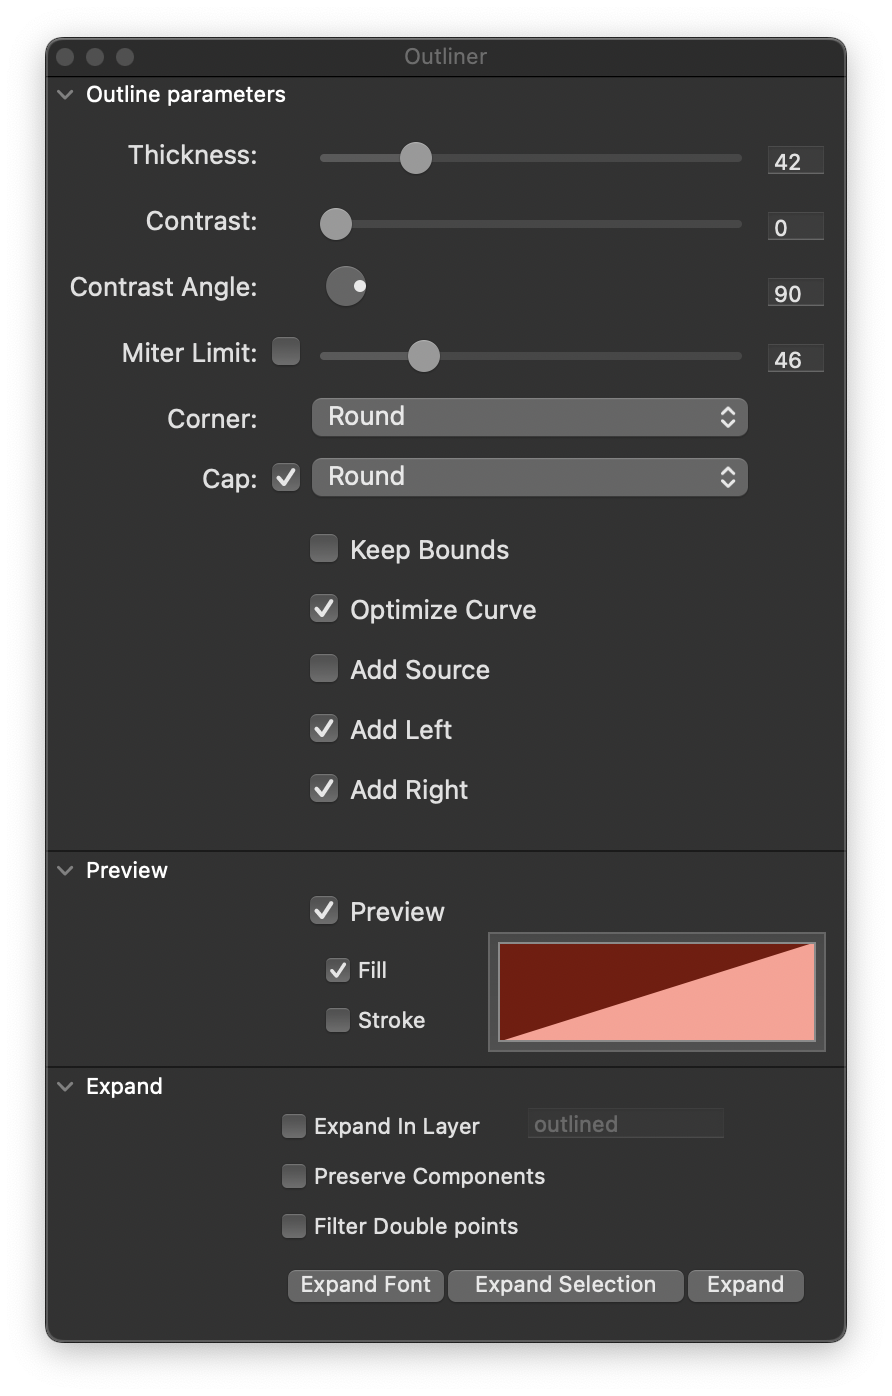
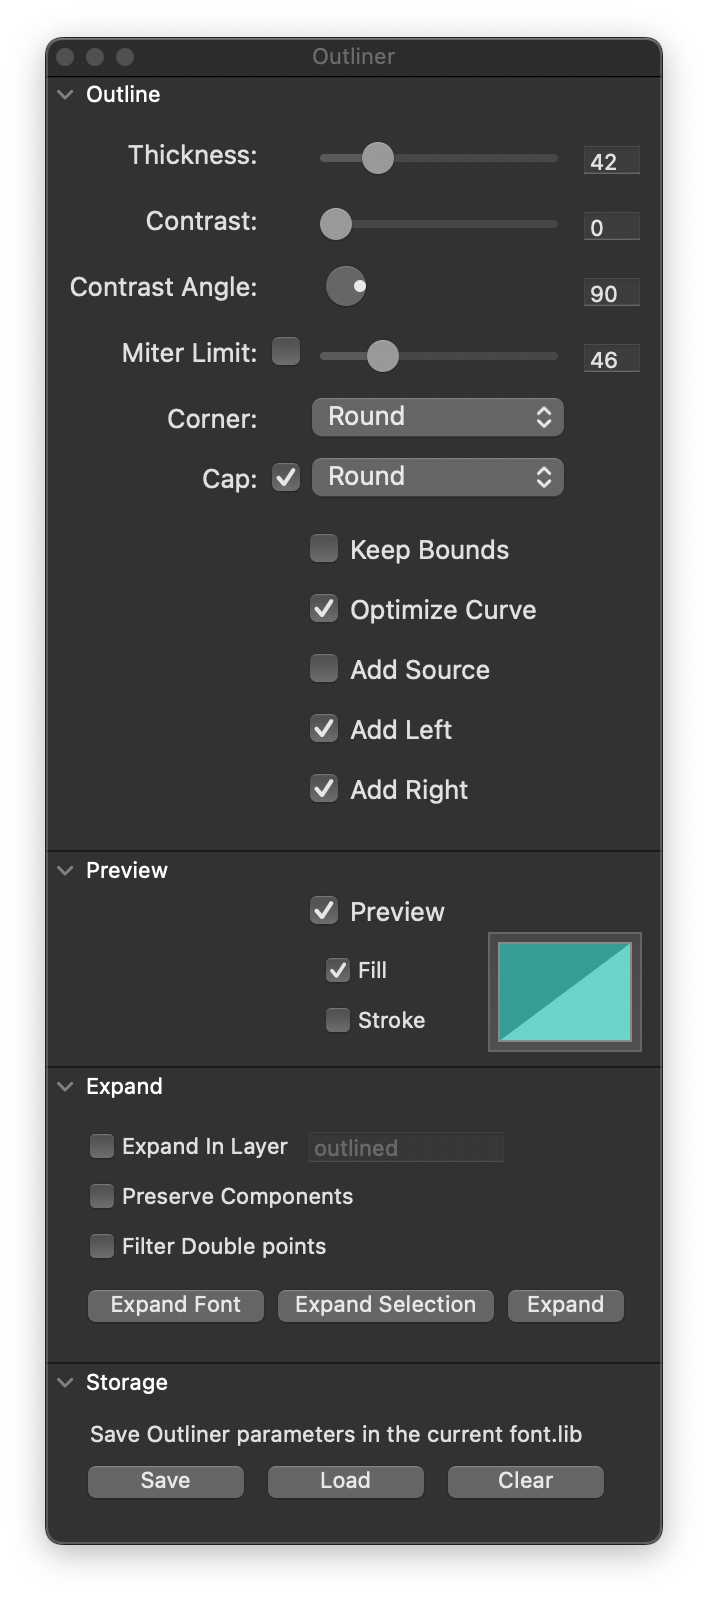
Updated screenshot

diff --git a/Outliner.roboFontExt/lib/outline.py b/Outliner.roboFontExt/lib/outline.py
@@ -428,17 +428,19 @@ class OutlinerPalette(WindowController):
         self.expandGroup.applyNewFont = vanilla.Button((115, b, 110, 22), "Expand Selection", self.expandSelection, sizeStyle="small")
         self.expandGroup.apply = vanilla.Button((230, b, 60, 22), "Expand", self.expand, sizeStyle="small")
 
-        self.storageGroup.saveSettings = vanilla.Button((20, 10, 80, 22), "Save", self.saveSettings, sizeStyle="small")
-        self.storageGroup.loadSettings = vanilla.Button((110, 10, 80, 22), "Load", self.loadSettings, sizeStyle="small")
-        self.storageGroup.clearSettings = vanilla.Button((200, 10, 60, 22), "Clear", self.clearSettings, sizeStyle="small")
+        self.storageGroup._saveHelpText = vanilla.TextBox((20, 10, 280, 14), "Save Outliner parameters in the current font.lib", alignment="left", sizeStyle="small")
 
-        self.storageGroup.savedDataStatus = vanilla.TextBox((20, 40, 280, 14), "XXX", alignment="left", sizeStyle="small")
+        self.storageGroup.saveSettings = vanilla.Button((20, 30, 80, 22), "Save", self.saveSettings, sizeStyle="small")
+        self.storageGroup.loadSettings = vanilla.Button((110, 30, 80, 22), "Load", self.loadSettings, sizeStyle="small")
+        self.storageGroup.clearSettings = vanilla.Button((200, 30, 80, 22), "Clear", self.clearSettings, sizeStyle="small")
+
+        self.storageGroup.savedDataStatus = vanilla.TextBox((20, 56, 280, 14), "", alignment="left", sizeStyle="small")
 
         descriptions = [
-            dict(label="Outline parameters", view=self.outlineGroup, size=370, collapsed=False, canResize=False),
+            dict(label="Outline", view=self.outlineGroup, size=370, collapsed=False, canResize=False),
             dict(label="Preview", view=self.previewGroup, size=90, collapsed=True, canResize=False),
             dict(label="Expand", view=self.expandGroup, size=130, collapsed=True, canResize=False),
-            dict(label="Storage into font.lib", view=self.storageGroup, size=80, collapsed=True, canResize=False),
+            dict(label="Storage", view=self.storageGroup, size=90, collapsed=True, canResize=False),
         ]
         self.w.accordionView = AccordionView((0, 0, -0, -0), descriptions)
         

diff --git a/README.md b/README.md
@@ -2,4 +2,4 @@
 
 Outlines strokes
 
-<img src="outliner@2x.png" alt="Screenshot showing the outliner palette" width="446">
+<img src="outliner@2x.png" alt="Screenshot showing the outliner palette" width="354">
